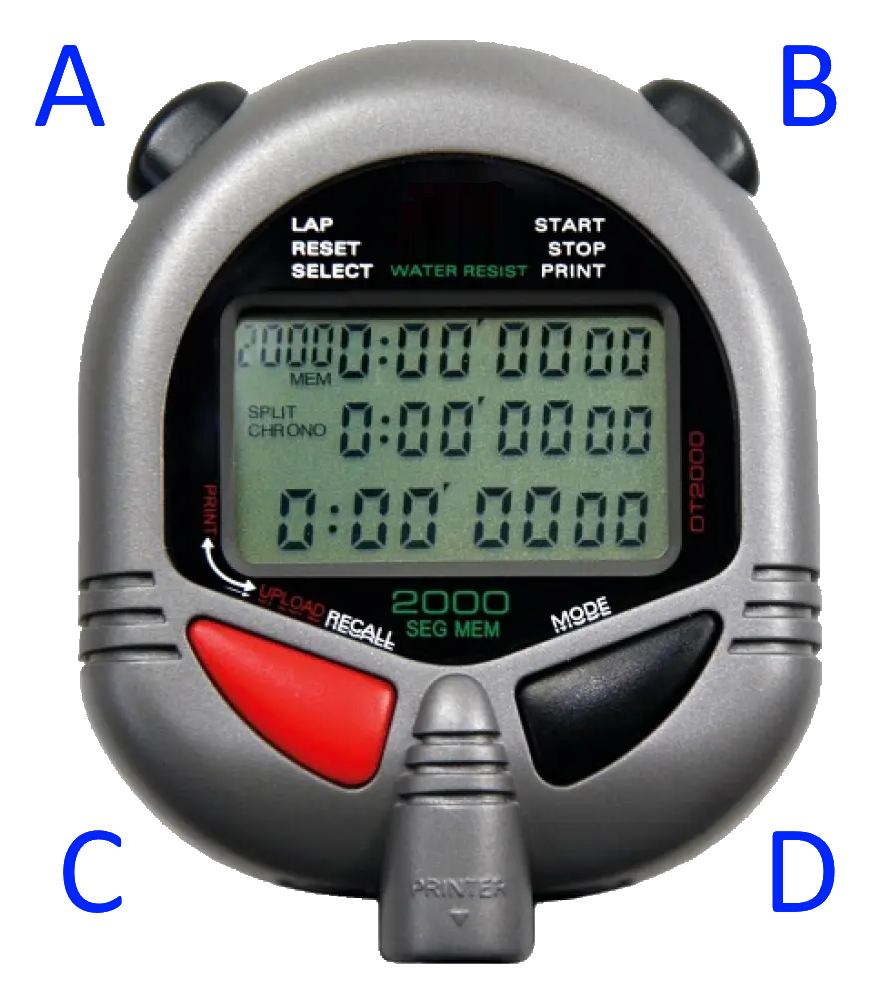
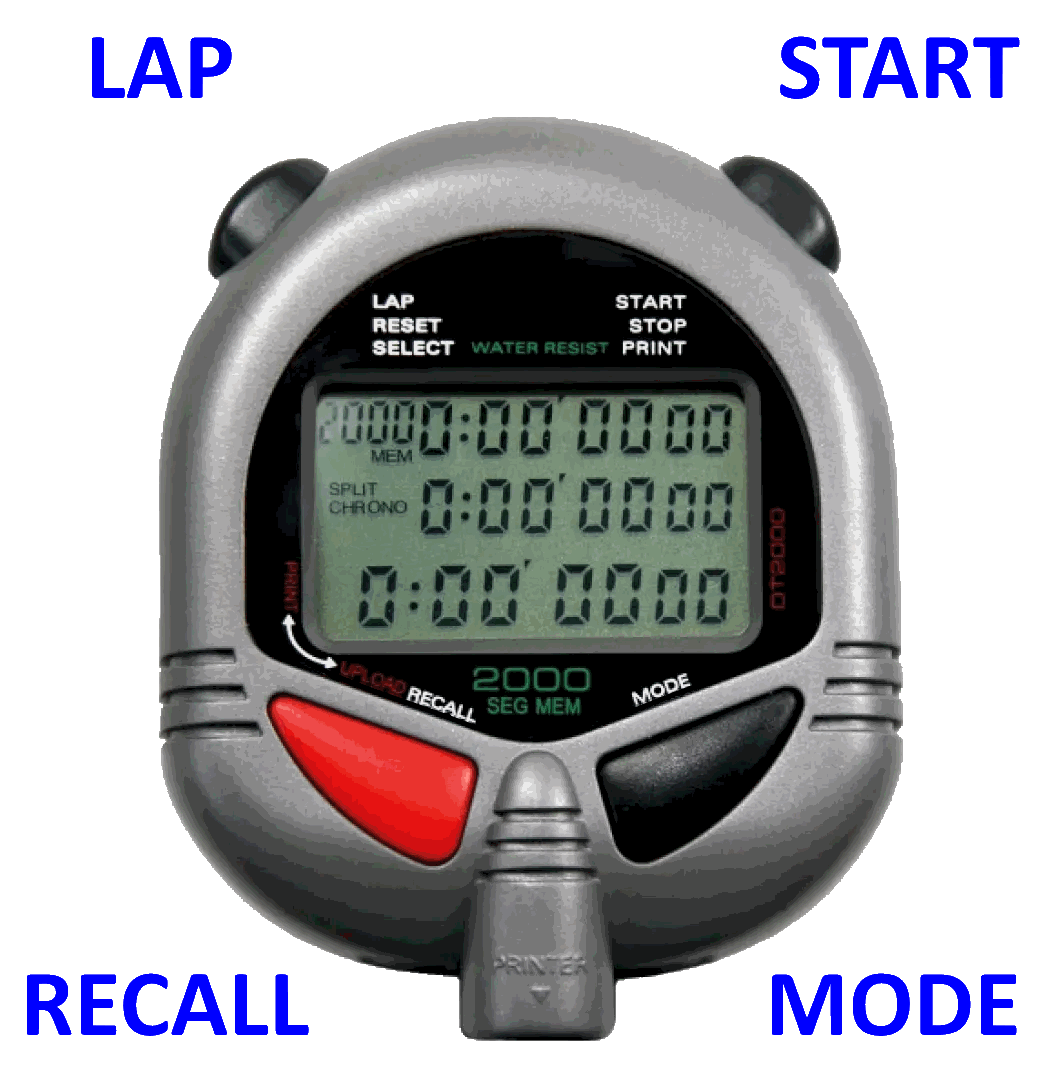
Tweaks

diff --git a/index.html b/index.html
@@ -61,7 +61,6 @@ h4
 #button {
 	color:#0000ff;
 	font-weight: bolder;
-	font-size:125%;
 }	
 
 #lcd {
@@ -75,36 +74,36 @@ h4
 
 <h1>ULTRAK 499 / DIGISport DT2000 StopWatch Guide</h1>
 
-<img src="https://raw.githubusercontent.com/RPitt/gfdpkrun/master/Stopwatch.png" style="width: 150px;" hspace="100">
+<img src="Stopwatch.png" style="width: 150px;" hspace="100">
 
 
 <h3>Clearing Stored Times</h3>
 
 <ul>
-<li>Press MODE (<span id="button">C</span>) until you are on the timing screen with 3 lines of times.<br>If the number is less than <span id="lcd">2000</span> then there are times to clear!</li>
-<li>Press RECALL (<span id="button">D</span>), you should now see <span id="lcd">MCH</span> at the bottom left of the screen.
-<li>Hold down START/STOP (<span id="button">A</span>) and continue holding until <span id="lcd">ALL CLEARED</span> is displayed and the beeping has stopped.
+<li>Press <span id="button">MODE</span> until you are on the timing screen with 3 lines of times.<br>If the number is less than <span id="lcd">2000</span> then there are times to clear!</li>
+<li>Press <span id="button">RECALL</span>, you should now see <span id="lcd">MCH</span> at the bottom left of the screen.
+<li>Press and hold down <span id="button">START/STOP</span> and continue holding until <span id="lcd">ALL CLEARED</span> is displayed and the beeping has stopped.
 </ul>
 
 <h3>Timing</h3>
 
 <ul>
-<li>Press MODE (<span id="button">C</span>) until you are on the timing screen.
+<li>Press <span id="button">MODE</span> until you are on the timing screen.
 <li>Check the screen says <span id="lcd">2000</span> ⇒ if not see “Clearing Stored Times” above.
-<li>Check the screen says <span id="lcd">SPLIT CHRONO</span> ⇒ if not press and hold LAP (<span id="button">B</span>) for 2 seconds to change mode.
-<li>Press START/STOP (<span id="button">A</span>) to start the run.
-<li>Press LAP (<span id="button">B</span>) for every runner crossing the finish.
-<li>Press START/STOP (<span id="button">A</span>) after the run.
-<li>Press LAP (<span id="button">B</span>) to store the times.
+<li>Check the screen says <span id="lcd">SPLIT CHRONO</span> ⇒ if not press and hold <span id="button">LAP</span> for 2 seconds to change mode.
+<li>Press <span id="button">START/STOP</span> to start the run.
+<li>Press <span id="button">LAP</span> for every runner crossing the finish.
+<li>Press <span id="button">START/STOP</span> after the run.
+<li>Press <span id="button">LAP</span> to store the times.
 </ul>
 
 <h3>Uploading</h3>
 
 <ul>
-<li>Press MODE (<span id="button">C</span>) until you see <span id="lcd">UPLOAD ALL</span>
-<li>If the stopwatch says <span id="lcd">PRINT ALL</span> ⇒ press RECALL (<span id="button">D</span>) to change to upload mode.
+<li>Press <span id="button">MODE</span> until you see <span id="lcd">UPLOAD ALL</span>
+<li>If the stopwatch says <span id="lcd">PRINT ALL</span> ⇒ press <span id="button">RECALL</span> to change to upload mode.
 <li>If the stopwatch says <span id="lcd">UPLOAD 0</span> ⇒ you haven’t stored the times, see the last step above!
-<li>Assuming you’re connected to the computer with the software ready… press START/STOP (<span id="button">A</span>) to start the upload.
+<li>Assuming you’re connected to the computer with the software ready… press <span id="button">START/STOP</span> to start the upload.
 </ul>
 
 </body>
